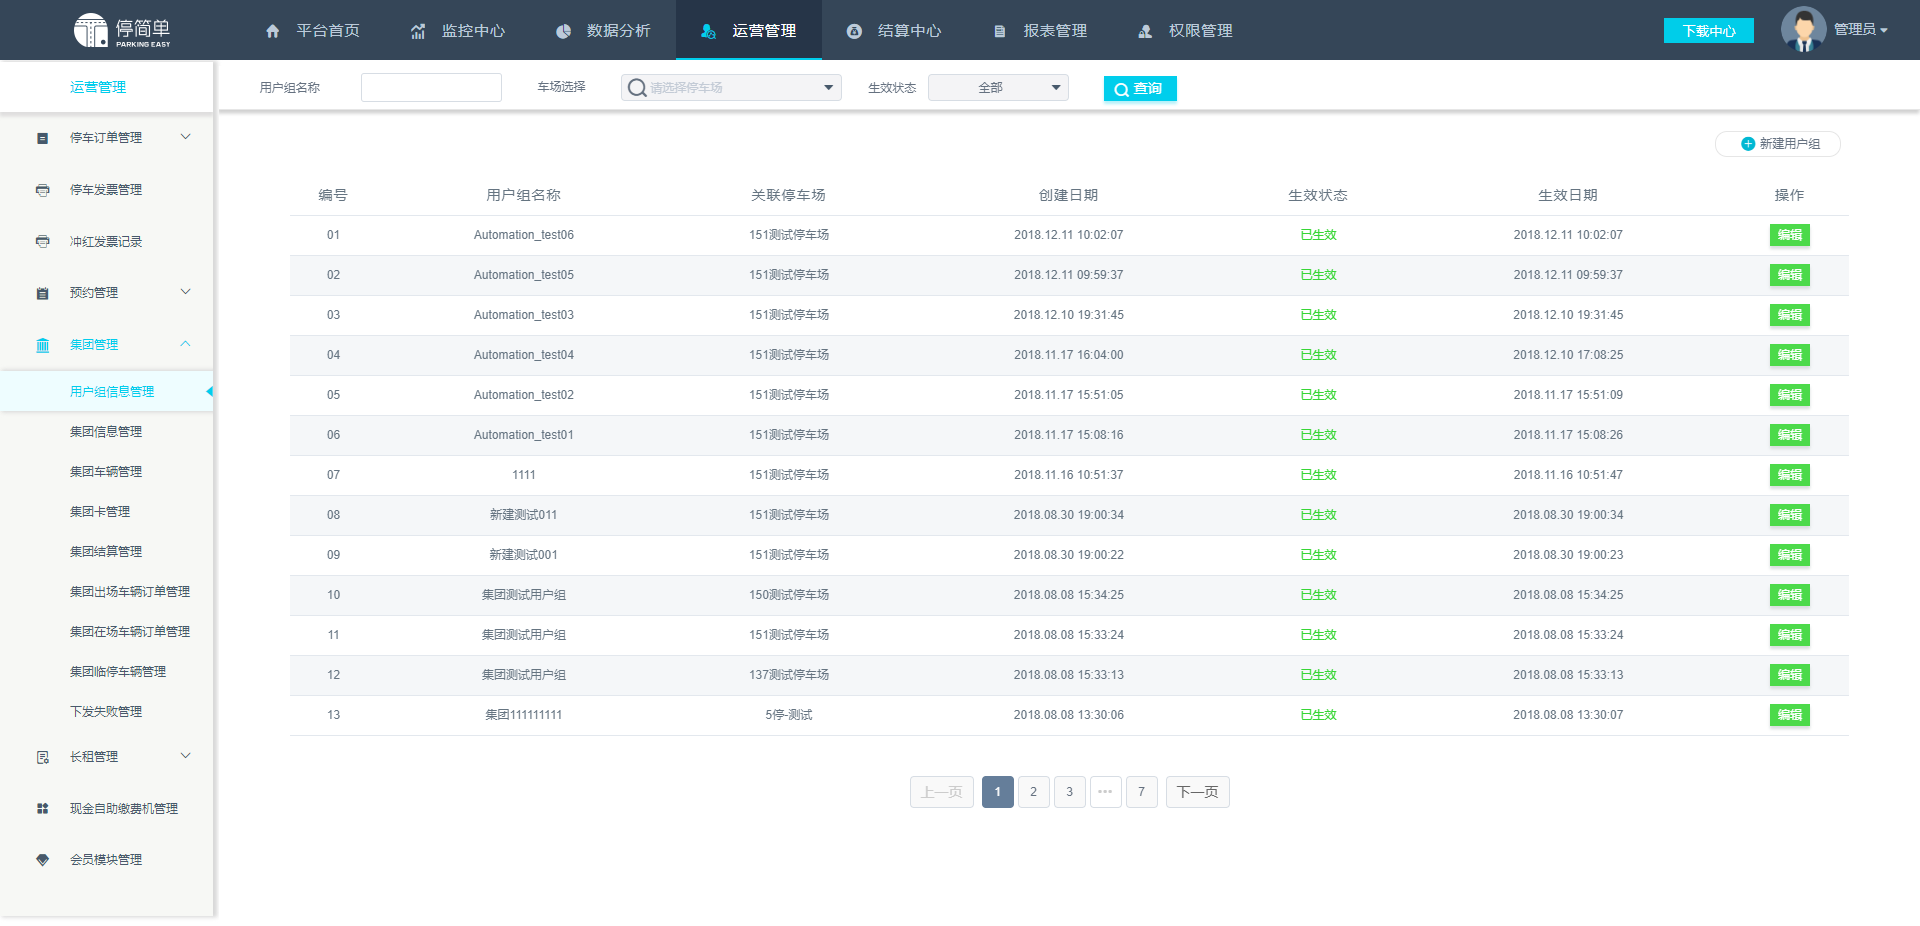
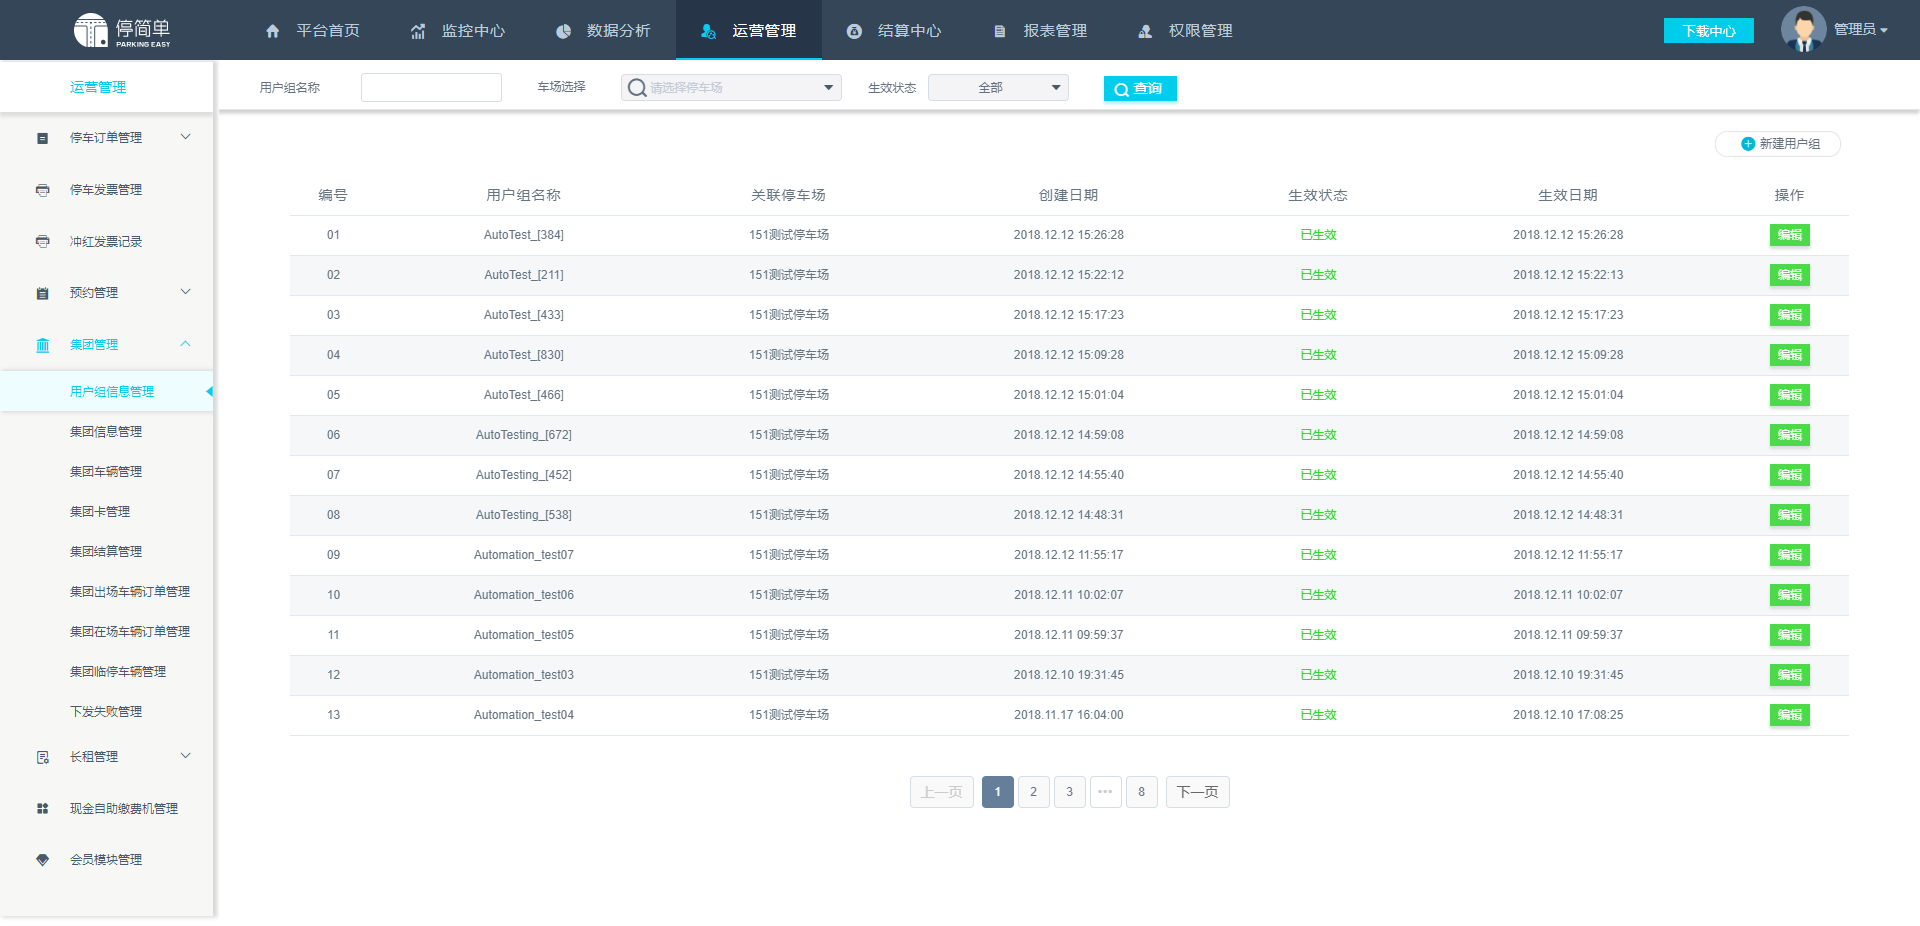
添加了参数，不用每次都删除重复的数据

diff --git a/report/2018-12-12 15_26_15_result.html b/report/2018-12-12 15_26_15_result.html
@@ -219,9 +219,9 @@ function showOutput(id, name) {
 
 <div class='heading'>
 <h1>集团管理自动化测试</h1>
-<p class='attribute'><strong>Start Time:</strong> 2018-12-11 10:01:51</p>
-<p class='attribute'><strong>Duration:</strong> 0:00:48.651018</p>
-<p class='attribute'><strong>Status:</strong> Pass 4 Failure 1</p>
+<p class='attribute'><strong>Start Time:</strong> 2018-12-12 15:26:15</p>
+<p class='attribute'><strong>Duration:</strong> 0:00:58.597314</p>
+<p class='attribute'><strong>Status:</strong> Pass 5</p>
 
 <p class='description'>运行环境：MySQL(PyMySQL), Requests, unittest，selenium </p>
 </div>
@@ -273,11 +273,31 @@ function showOutput(id, name) {
 
 <tr id='pt1.1' class='hiddenRow'>
     <td class='none'><div class='testcase'>test_a_new_usergroup: 新建用户组</div></td>
-    <td colspan='5' align='center'>pass</td>
+    <td colspan='5' align='center'>
+
+    <!--css div popup start-->
+    <a class="popup_link" onfocus='this.blur();' href="javascript:showTestDetail('div_pt1.1')" >
+        pass</a>
+
+    <div id='div_pt1.1' class="popup_window">
+        <div style='text-align: right; color:red;cursor:pointer'>
+        <a onfocus='this.blur();' onclick="document.getElementById('div_pt1.1').style.display = 'none' " >
+           [x]</a>
+        </div>
+        <pre>
+        
+pt1.1: [2018-12-12 15:26:27,780] - logger.py[line:27] - fuc:__console- INFO: 新建一个用户组，名字为：AutoTest_[384]
+
+
+        </pre>
+    </div>
+    <!--css div popup end-->
+
+    </td>
 </tr>
 
 <tr id='pt1.2' class='hiddenRow'>
-    <td class='none'><div class='testcase'>test_b_browser: 查询用户组信息,查询用户组名为2018071801的信息</div></td>
+    <td class='none'><div class='testcase'>test_b_browser: 查询新建用户组信息</div></td>
     <td colspan='5' align='center'>
 
     <!--css div popup start-->
@@ -291,8 +311,8 @@ function showOutput(id, name) {
         </div>
         <pre>
         
-pt1.2: [2018-12-11 10:02:27,872] - logger.py[line:27] - fuc:__console- INFO: 输入查询的用户组名称2018071801
-[2018-12-11 10:02:28,328] - logger.py[line:27] - fuc:__console- INFO: 查询到2018071801的停车场是海澜中苑停车场
+pt1.2: [2018-12-12 15:26:51,289] - logger.py[line:27] - fuc:__console- INFO: 输入查询的用户组名称：AutoTest_[384]
+[2018-12-12 15:26:51,730] - logger.py[line:27] - fuc:__console- INFO: 查询到的停车场是:151测试停车场
 
 
         </pre>
@@ -302,11 +322,11 @@ pt1.2: [2018-12-11 10:02:27,872] - logger.py[line:27] - fuc:__console- INFO: 输
     </td>
 </tr>
 
-<tr class='failClass'>
+<tr class='passClass'>
     <td>jituanxinxiguanli_test.GroupInfo: 集团信息管理</td>
     <td>3</td>
-    <td>2</td>
-    <td>1</td>
+    <td>3</td>
+    <td>0</td>
     <td>0</td>
     <td><a href="javascript:showClassDetail('c2',3)">Detail</a></td>
 </tr>
@@ -326,7 +346,7 @@ pt1.2: [2018-12-11 10:02:27,872] - logger.py[line:27] - fuc:__console- INFO: 输
         </div>
         <pre>
         
-pt2.1: [2018-12-11 10:02:28,667] - logger.py[line:27] - fuc:__console- INFO: 打开集团信息管理页面成功
+pt2.1: [2018-12-12 15:26:52,061] - logger.py[line:27] - fuc:__console- INFO: 打开集团信息管理页面成功
 
 
         </pre>
@@ -338,35 +358,45 @@ pt2.1: [2018-12-11 10:02:28,667] - logger.py[line:27] - fuc:__console- INFO: 打
 
 <tr id='pt2.2' class='hiddenRow'>
     <td class='none'><div class='testcase'>test_b_addgroup: 新建集团</div></td>
-    <td colspan='5' align='center'>pass</td>
-</tr>
-
-<tr id='ft2.3' class='none'>
-    <td class='failCase'><div class='testcase'>test_c_browsergroup: 查询新建的集团</div></td>
     <td colspan='5' align='center'>
 
     <!--css div popup start-->
-    <a class="popup_link" onfocus='this.blur();' href="javascript:showTestDetail('div_ft2.3')" >
-        fail</a>
+    <a class="popup_link" onfocus='this.blur();' href="javascript:showTestDetail('div_pt2.2')" >
+        pass</a>
 
-    <div id='div_ft2.3' class="popup_window">
+    <div id='div_pt2.2' class="popup_window">
         <div style='text-align: right; color:red;cursor:pointer'>
-        <a onfocus='this.blur();' onclick="document.getElementById('div_ft2.3').style.display = 'none' " >
+        <a onfocus='this.blur();' onclick="document.getElementById('div_pt2.2').style.display = 'none' " >
            [x]</a>
         </div>
         <pre>
         
-ft2.3: Traceback (most recent call last):
-  File "../TestCase\jituanxinxiguanli_test.py", line 76, in test_c_browsergroup
-    raise(e)
-  File "../TestCase\jituanxinxiguanli_test.py", line 70, in test_c_browsergroup
-    self.assertEqual(u'AutoTesting_01',groupname)
-AssertionError: 'AutoTesting_01' != 'AutoTesting_05'
-- AutoTesting_01
-?              ^
-+ AutoTesting_05
-?              ^
+pt2.2: [2018-12-12 15:26:53,148] - logger.py[line:27] - fuc:__console- INFO: 新建集团，名字为AutoTest_[758]
 
+
+        </pre>
+    </div>
+    <!--css div popup end-->
+
+    </td>
+</tr>
+
+<tr id='pt2.3' class='hiddenRow'>
+    <td class='none'><div class='testcase'>test_c_browsergroup: 查询新建的集团</div></td>
+    <td colspan='5' align='center'>
+
+    <!--css div popup start-->
+    <a class="popup_link" onfocus='this.blur();' href="javascript:showTestDetail('div_pt2.3')" >
+        pass</a>
+
+    <div id='div_pt2.3' class="popup_window">
+        <div style='text-align: right; color:red;cursor:pointer'>
+        <a onfocus='this.blur();' onclick="document.getElementById('div_pt2.3').style.display = 'none' " >
+           [x]</a>
+        </div>
+        <pre>
+        
+pt2.3: [2018-12-12 15:27:13,623] - logger.py[line:27] - fuc:__console- INFO: 查询到新建的集团为：AutoTest_[758]
 
 
         </pre>
@@ -379,8 +409,8 @@ AssertionError: 'AutoTesting_01' != 'AutoTesting_05'
 <tr id='total_row'>
     <td>Total</td>
     <td>5</td>
-    <td class="text text-success">4</td>
-    <td class="text text-danger">1</td>
+    <td class="text text-success">5</td>
+    <td class="text text-danger">0</td>
     <td class="text text-warning">0</td>
     <td>&nbsp;</td>
 </tr>
@@ -398,14 +428,14 @@ var data = [
 		labelFontSize: '16'
 	},
 	{
-		value : 1,
+		value : 0,
 		color : "#faebcc",
 		label: "Fail",
 		labelColor: 'white',
 		labelFontSize: '16'
 	},
 	{
-		value : 4,
+		value : 5,
 		color : "#d6e9c6",
 		label : "Pass",
 		labelColor: 'white',

diff --git a/TestCase/user_group_info_browser_test.py b/TestCase/user_group_info_browser_test.py
@@ -8,19 +8,22 @@ from time import sleep
 sys.path.append('../Public/')
 sys.path.append('../webApi/')
 sys.path.append('../common/')
+sys.path.append('../Data/')
 from logger import Log
+from test_data import test_data
 from selenium.common.exceptions import NoSuchElementException
 from selenium.common.exceptions import NoAlertPresentException
 from public import ParametrizedTestCase
 from yonghuzuxinxiguanli_element import chaxun_element,new_usergroupinfo
-
+data=test_data()
 
 
 class UserGroup(ParametrizedTestCase):
     """用户组信息管理"""
-
+    global data
     def test_a_new_usergroup(self):
         """新建用户组"""
+        #data=test_data()
         try:
             driver=self.param
             driver.switch_to_frame("iframeId")
@@ -28,10 +31,13 @@ class UserGroup(ParametrizedTestCase):
             driver.find_element(*new_usergroupinfo()[1]).click()#input_park
             driver.find_element(*new_usergroupinfo()[1]).send_keys("151")#input_park
             driver.find_element(*new_usergroupinfo()[2]).click()
-            driver.find_element(*new_usergroupinfo()[3]).send_keys("Automation_test07")
-            driver.find_element(*new_usergroupinfo()[4]).send_keys("Automation_test07")
+            #driver.find_element(*new_usergroupinfo()[3]).send_keys("Automation_test07")
+            #driver.find_element(*new_usergroupinfo()[4]).send_keys("Automation_test07")
+            driver.find_element(*new_usergroupinfo()[3]).send_keys(data)
+            driver.find_element(*new_usergroupinfo()[4]).send_keys(data)
             driver.find_element(*new_usergroupinfo()[5]).click()
             #driver.implicitly_wait(20)
+            Log().info("新建一个用户组，名字为：%s"%data)
             sleep(20)
             driver.get_screenshot_as_file('../images/添加结果截图.png')
         except NoSuchElementException as e:
@@ -43,19 +49,19 @@ class UserGroup(ParametrizedTestCase):
             sleep(3)
 
     def test_b_browser(self):
-        """查询用户组信息,查询用户组名为2018071801的信息"""
+        """查询新建用户组信息"""
         
         try:
             driver=self.param
             driver.switch_to_frame("iframeId")
-            driver.find_element(*chaxun_element()[0]).send_keys("2018071801")
-            Log().info("输入查询的用户组名称2018071801")
+            driver.find_element(*chaxun_element()[0]).send_keys(data)
+            Log().info("输入查询的用户组名称：%s"%data)
             driver.find_element(*chaxun_element()[1]).click()
             driver.get_screenshot_as_file('../images/查询结果.png')
             groupname=driver.find_element(*chaxun_element()[2]).text
             driver.implicitly_wait(3)
-            self.assertEqual(u'海澜中苑停车场',groupname)
-            Log().info("查询到2018071801的停车场是海澜中苑停车场")
+            self.assertEqual(u'151测试停车场',groupname)
+            Log().info("查询到的停车场是:%s"%groupname)
 
         except AssertionError as e:
             Log().error(e)

diff --git a/TestCase/jituanxinxiguanli_test.py b/TestCase/jituanxinxiguanli_test.py
@@ -9,12 +9,17 @@ from selenium.common.exceptions import NoAlertPresentException
 sys.path.append('../Public/')
 sys.path.append('../webApi/')
 sys.path.append('../common/')
+sys.path.append('../Data/')
+from test_data import test_data
 import time,re
 from public import ParametrizedTestCase
 from logger import Log
 from jituanxinxiguanli_element import open_element,new_group,chaxun_new_group
+data=test_data()
+
 class GroupInfo(ParametrizedTestCase):
     """集团信息管理"""
+    global data
 
     def test_a_openpage(self):
         """打开集团信息管理页面"""
@@ -40,18 +45,19 @@ class GroupInfo(ParametrizedTestCase):
             #点击新建集团按钮
             driver.find_element(*new_group()[0]).click()
             #输入集团名称
-            driver.find_element(*new_group()[1]).send_keys("AutoTesting_01")
+            driver.find_element(*new_group()[1]).send_keys(data)
             #输入联系人手机号
             driver.find_element(*new_group()[2]).send_keys("18512302010")
             #输入联系人邮箱
             driver.find_element(*new_group()[3]).send_keys("123@qq.com")
             #输入集团描述
-            driver.find_element(*new_group()[4]).send_keys("AutoTestCase_01")
+            driver.find_element(*new_group()[4]).send_keys(data)
             #确认添加
             driver.find_element(*new_group()[5]).click()
             driver.get_screenshot_as_file('../images/添加结果.png')
+            Log().info("新建集团，名字为%s"%data)
             time.sleep(10)
-            #Login().cutimages(driver)
+
         except NoSuchElementException as e:
             raise(e)
         finally:
@@ -63,15 +69,15 @@ class GroupInfo(ParametrizedTestCase):
             driver=self.param
             driver.switch_to_frame("iframeId")
             #输入集团名称
-            driver.find_element(*chaxun_new_group()[0]).send_keys("AutoTesting_01")
+            driver.find_element(*chaxun_new_group()[0]).send_keys(data)
             #点击查询
             driver.find_element(*chaxun_new_group()[1]).click()
             groupname=driver.find_element(*chaxun_new_group()[2]).text
-            self.assertEqual(u'AutoTesting_01',groupname)
+            self.assertEqual(data,groupname)
             phone=driver.find_element(*chaxun_new_group()[3]).text
             self.assertEqual('18512302010',phone)
             time.sleep(10)
-            #Login().cutimages(driver)
+            Log().info("查询到新建的集团为：%s"%groupname)
         except AssertionError as e:
             raise(e)
         finally:

diff --git a/Data/test_data.py b/Data/test_data.py
@@ -1,0 +1,9 @@
+"""
+集团信息管理-用户组信息管理-新建用户组：用户组名称和描述的参数
+"""
+import random
+def test_data():
+	randomdata = range(99,999)
+	randomlist = random.sample(randomdata,1)
+	str1="AutoTest_"
+	return(str1+str(randomlist))
